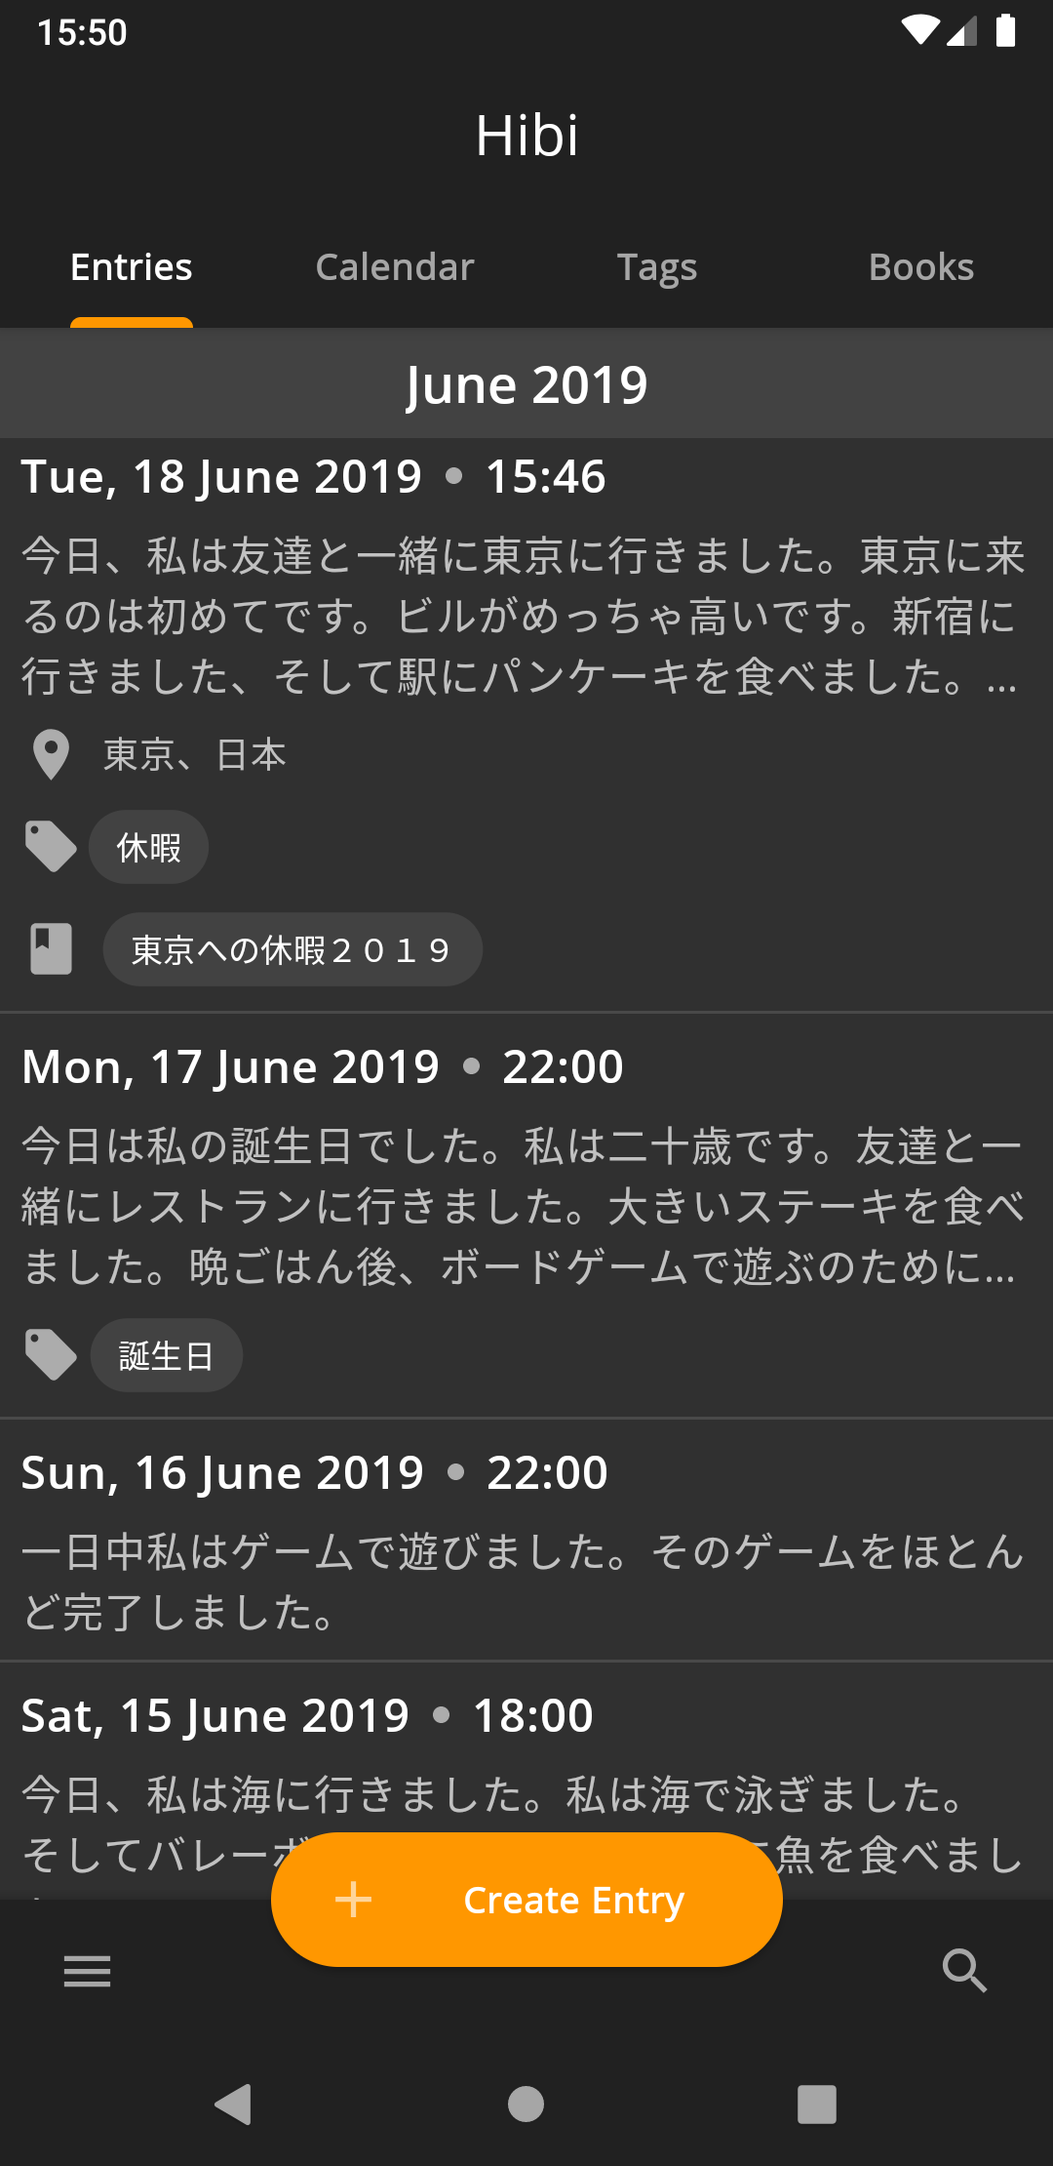
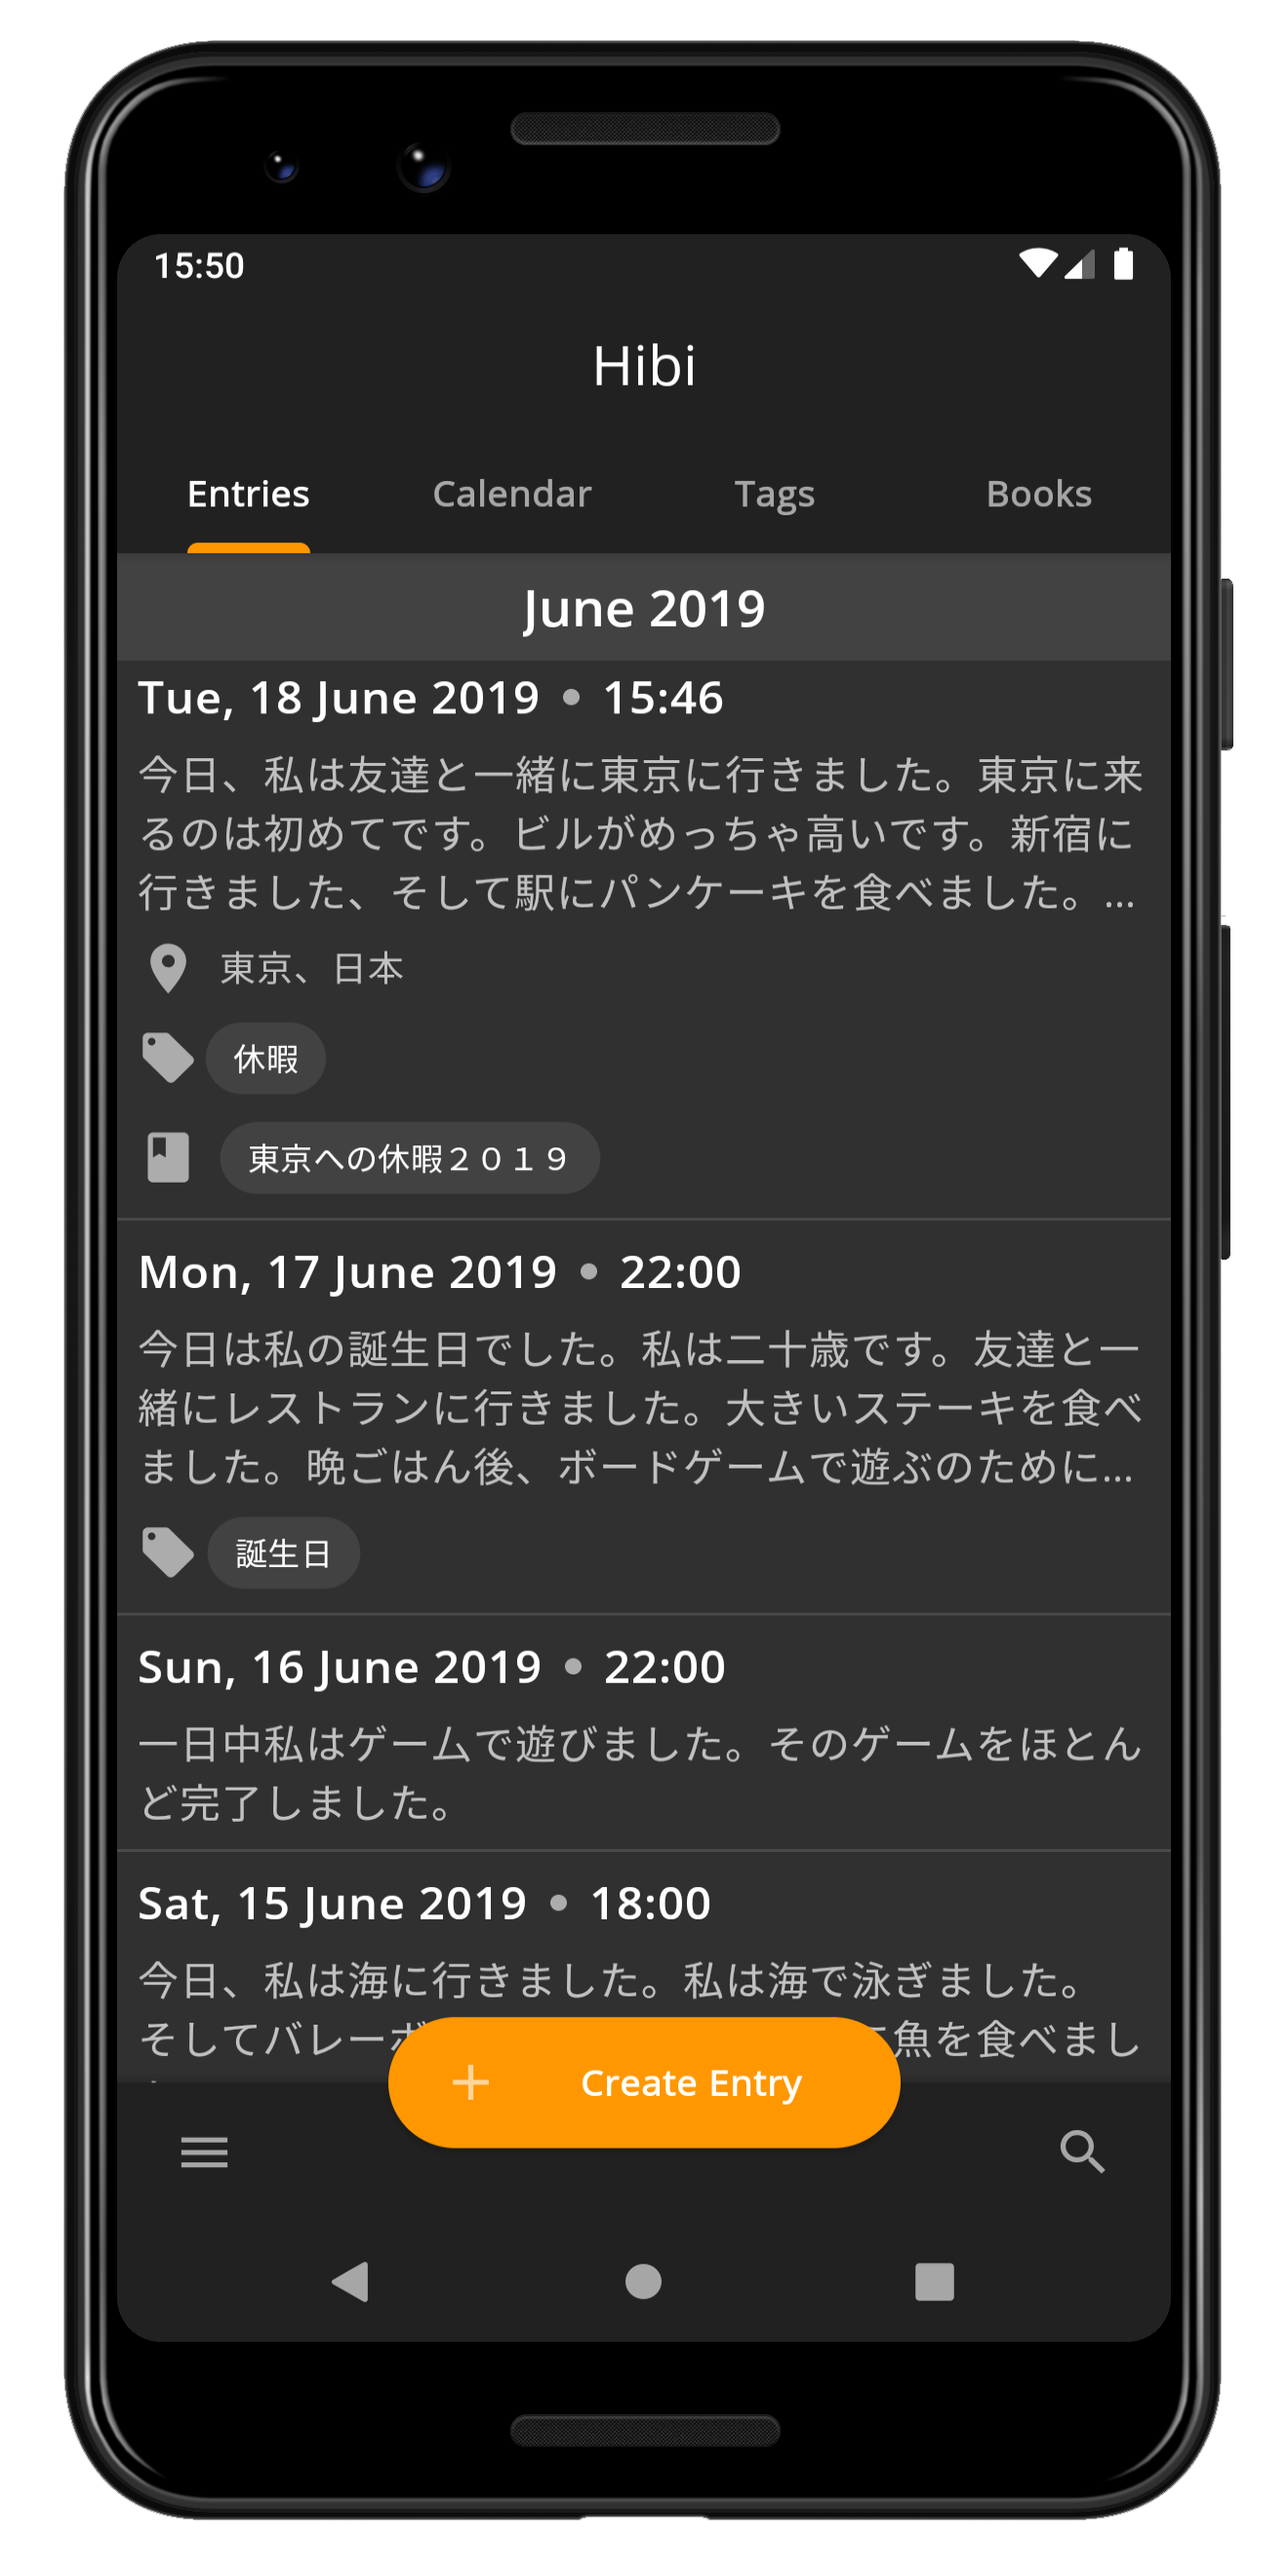
Update Readme images

diff --git a/README.md b/README.md
@@ -32,18 +32,18 @@ An app for Android designed to aid your Japanese learning through keeping a jour
 ## Screenshots
 | Main Screen | Main Screen Dark | Add Entry |
 |:-:|:-:|:-:|
-| ![Main Screen](/.github/assets/main-display-light.png?raw=true) | ![Dark Theme](/.github/assets/main-display-dark.png?raw=true) |![Add entry](/.github/assets/add-entry-dark.png?raw=true)
+| ![Main Screen](/.github/assets/main-display-light.png?raw=true) | ![Dark Theme](/.github/assets/main-display-dark.png?raw=true) |![Add entry](/.github/assets/add-entry.png?raw=true)
 
-| Search Jisho | Add Tags | Add New Words |
+| Search Jisho | More Info | Add New Words |
 |:-:|:-:|:-:|
-| ![Search Jisho](/.github/assets/search-jisho-dark.png?raw=true) | ![Add Tags](/.github/assets/add-tags-dark.png?raw=true) | ![Add New Words](/.github/assets/new-word-dark.png?raw=true)
+| ![Search Jisho](/.github/assets/search-jisho.png?raw=true) | ![More Info](/.github/assets/search-jisho-more.png?raw=true) | ![Add New Words](/.github/assets/add-words.png?raw=true)
 
-| Search Entries | View Entry |
+| Add Tags | Search Entries |
 |:-:|:-:|
-| ![Search Entries](/.github/assets/search-entries-dark.png?raw=true) | ![View Entry](/.github/assets/view-entry-dark.png?raw=true) |
+| ![Add Tags](/.github/assets/add-tags.png?raw=true) | ![Search Entries](/.github/assets/search-entries.png?raw=true) |
 
 ## Tech and Architecture
-Written in Kotlin and employing an MVVM architecture pattern using [AndroidX View Model](https://developer.android.com/topic/libraries/architecture/viewmodel) components. Navigation is handled by the [AndroidX Navigation Components](https://developer.android.com/guide/navigation/). Data is stored using a [Room](https://developer.android.com/jetpack/androidx/releases/room) database and then retrieved asynchronously using Kotlin coroutines and [LiveData](https://developer.android.com/topic/libraries/architecture/livedata). [Kodein](https://github.com/Kodein-Framework/Kodein-DI) is used for dependency injection due to it's native support for Kotlin and it's ease of writing. API calls are made using [Retrofit](https://github.com/square/retrofit) and then converted into Kotlin objects using [Gson](https://github.com/google/gson). Design inspired by [Material Design](https://material.io/) and implemented using [Material Components for Android](https://github.com/material-components/material-components-android).
+Hibi is written entirely in Kotlin and employs an MVVM architecture pattern using [AndroidX View Model](https://developer.android.com/topic/libraries/architecture/viewmodel) components. Navigation is handled by the [AndroidX Navigation Components](https://developer.android.com/guide/navigation/). Data is stored using a [Room](https://developer.android.com/jetpack/androidx/releases/room) database and then retrieved asynchronously using Kotlin coroutines and [LiveData](https://developer.android.com/topic/libraries/architecture/livedata). [Kodein](https://github.com/Kodein-Framework/Kodein-DI) is used for dependency injection due to it's native support for Kotlin and it's ease of writing. API calls are made using [Retrofit](https://github.com/square/retrofit) and then converted into Kotlin objects using [Gson](https://github.com/google/gson). Design inspired by [Material Design](https://material.io/) and implemented using [Material Components for Android](https://github.com/material-components/material-components-android).
 
 ## Open Source Libraries Used
 ### [Timber](https://github.com/JakeWharton/timber)
